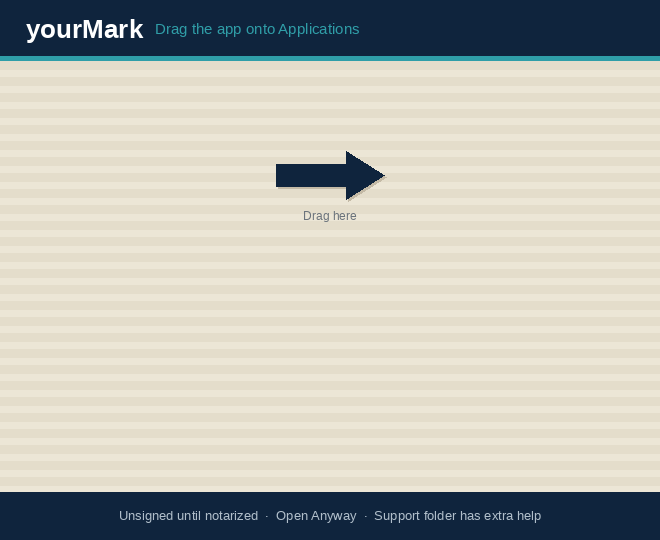
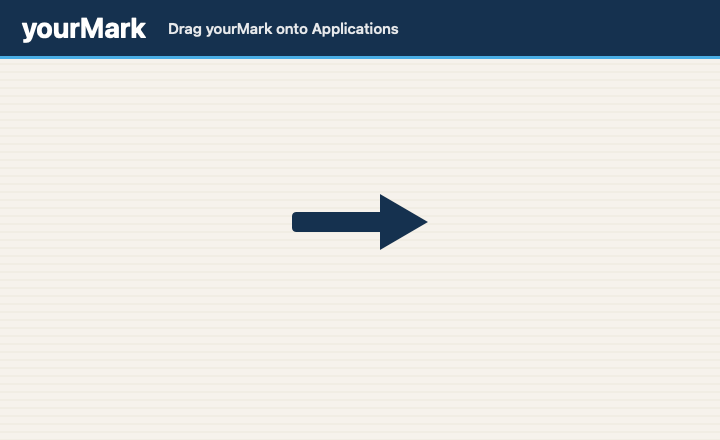
Make the Mac disk a simple drag onto Applications.
Drop the Gatekeeper help files, hide the extra Support folder, enlarge the icons, and replace the old unsigned background with a clear arrow.

diff --git a/Scripts/make-dmg-background.swift b/Scripts/make-dmg-background.swift
@@ -1,0 +1,78 @@
+#!/usr/bin/env swift
+import AppKit
+
+let width: CGFloat = 720
+let height: CGFloat = 440
+let image = NSImage(size: NSSize(width: width, height: height))
+image.lockFocus()
+
+let paper = NSColor(calibratedRed: 0.956, green: 0.937, blue: 0.902, alpha: 1)
+let navy = NSColor(calibratedRed: 0.039, green: 0.145, blue: 0.251, alpha: 1)
+let cyan = NSColor(calibratedRed: 0.0, green: 0.631, blue: 0.894, alpha: 1)
+let line = NSColor(calibratedRed: 0.91, green: 0.88, blue: 0.82, alpha: 1)
+
+paper.setFill()
+NSBezierPath(rect: NSRect(x: 0, y: 0, width: width, height: height)).fill()
+
+var y: CGFloat = 0
+while y < height {
+    line.setStroke()
+    let p = NSBezierPath()
+    p.lineWidth = 1
+    p.move(to: NSPoint(x: 0, y: y))
+    p.line(to: NSPoint(x: width, y: y))
+    p.stroke()
+    y += 8
+}
+
+let headerH: CGFloat = 56
+navy.setFill()
+NSBezierPath(rect: NSRect(x: 0, y: height - headerH, width: width, height: headerH)).fill()
+cyan.setFill()
+NSBezierPath(rect: NSRect(x: 0, y: height - headerH - 3, width: width, height: 3)).fill()
+
+func draw(_ text: String, font: NSFont, color: NSColor, at point: NSPoint) {
+    let attrs: [NSAttributedString.Key: Any] = [
+        .font: font,
+        .foregroundColor: color,
+    ]
+    (text as NSString).draw(at: point, withAttributes: attrs)
+}
+
+draw(
+    "yourMark",
+    font: NSFont.systemFont(ofSize: 28, weight: .bold),
+    color: .white,
+    at: NSPoint(x: 22, y: height - 44)
+)
+draw(
+    "Drag yourMark onto Applications",
+    font: NSFont.systemFont(ofSize: 15, weight: .medium),
+    color: NSColor.white.withAlphaComponent(0.88),
+    at: NSPoint(x: 168, y: height - 38)
+)
+
+// Arrow sits between the two large icons (centers ~180 and 540, y ~210).
+let midY: CGFloat = 218
+let shaft = NSBezierPath(roundedRect: NSRect(x: 292, y: midY - 10, width: 96, height: 20), xRadius: 4, yRadius: 4)
+navy.setFill()
+shaft.fill()
+let head = NSBezierPath()
+head.move(to: NSPoint(x: 380, y: midY + 28))
+head.line(to: NSPoint(x: 428, y: midY))
+head.line(to: NSPoint(x: 380, y: midY - 28))
+head.close()
+head.fill()
+
+image.unlockFocus()
+
+let root = URL(fileURLWithPath: CommandLine.arguments[1])
+guard let tiff = image.tiffRepresentation,
+      let rep = NSBitmapImageRep(data: tiff),
+      let png = rep.representation(using: .png, properties: [:])
+else {
+    fputs("failed to write background\n", stderr)
+    exit(1)
+}
+try png.write(to: root)
+print("wrote \(root.path)")

diff --git a/docs/index.html b/docs/index.html
@@ -36,7 +36,7 @@
 
     <p class="banner">
       This site is a <strong>browser preview</strong>.
-      The <a href="https://github.com/Burbank/yourMark/releases/latest/download/yourMark-0.3.47.dmg">Mac app</a>
+      The <a href="https://github.com/Burbank/yourMark/releases/latest/download/yourMark-0.3.48.dmg">Mac app</a>
       is better for PDFs with graphics — it includes OCR and layout. Scans, tables, and figures stay intact there.
       The <strong>browser</strong> version does not include OCR.
       <a href="https://github.com/Burbank/yourMark/releases/latest/download/yourMark.exe">Windows (early)</a>.
@@ -138,7 +138,7 @@
       <div class="box">
         <p>Library, bookmarks, pictures, OCR, and Ask with your key work best on the Mac.</p>
         <p>
-          <a class="btn-link" href="https://github.com/Burbank/yourMark/releases/latest/download/yourMark-0.3.47.dmg">Download Mac disk</a>
+          <a class="btn-link" href="https://github.com/Burbank/yourMark/releases/latest/download/yourMark-0.3.48.dmg">Download Mac disk</a>
           ·
           <a class="btn-link" href="https://github.com/Burbank/yourMark/releases/latest/download/yourMark.exe">Windows exe</a>
           ·

diff --git a/Casks/yourmark.rb b/Casks/yourmark.rb
@@ -1,5 +1,5 @@
 cask "yourmark" do
-  version "0.3.47"
+  version "0.3.48"
   sha256 :no_check
 
   url "https://github.com/Burbank/yourMark/releases/download/v#{version}/yourMark-#{version}.dmg"

diff --git a/README.md b/README.md
@@ -6,7 +6,7 @@
 
 A Mac app that turns PDFs — and Word, slides, or a spreadsheet — into **Markdown**. That is ordinary text you can search, copy, and ask questions about. The file never leaves this computer. See [All versions](https://github.com/Burbank/yourMark/releases) for an early Windows version as well.
 
-**[Download yourMark-0.3.47.dmg](https://github.com/Burbank/yourMark/releases/latest/download/yourMark-0.3.47.dmg)** · [All versions](https://github.com/Burbank/yourMark/releases) · [Install notes](INSTALL.md) · [Test a simpler version in your browser](https://burbank.github.io/yourMark/) (preview only — no OCR)
+**[Download yourMark-0.3.48.dmg](https://github.com/Burbank/yourMark/releases/latest/download/yourMark-0.3.48.dmg)** · [All versions](https://github.com/Burbank/yourMark/releases) · [Install notes](INSTALL.md) · [Test a simpler version in your browser](https://burbank.github.io/yourMark/) (preview only — no OCR)
 
 ## Why Markdown?
 

diff --git a/docs/apple-distribution.md b/docs/apple-distribution.md
@@ -31,7 +31,7 @@ export CODESIGN_IDENTITY="Developer ID Application: …"
 
 `Scripts/build-app.sh` uses Developer ID when that identity is in the keychain; otherwise it stays ad-hoc. `Scripts/sign-and-notarize.sh` staples a ticket when notary credentials exist.
 
-The GitHub disk from 0.3.47 on is Developer ID–signed and notarized. Keep the “If Apple blocks it” page on the disk for the rare leftover warning.
+The GitHub disk from 0.3.47 on is Developer ID–signed and notarized. From 0.3.48 the disk is only the app and Applications — no Gatekeeper help files.
 
 ## 2. Mac App Store (second)
 

diff --git a/INSTALL.md b/INSTALL.md
@@ -2,7 +2,7 @@
 
 ## Double-click (recommended)
 
-1. Download [yourMark-0.3.47.dmg](https://github.com/Burbank/yourMark/releases/latest/download/yourMark-0.3.47.dmg) (the filename includes the version).
+1. Download [yourMark-0.3.48.dmg](https://github.com/Burbank/yourMark/releases/latest/download/yourMark-0.3.48.dmg) (the filename includes the version).
 2. Open the disk image and **drag yourMark onto Applications** (follow the arrow). Then open yourMark from Applications.
 
 This Mac disk is signed and notarized by Apple.
